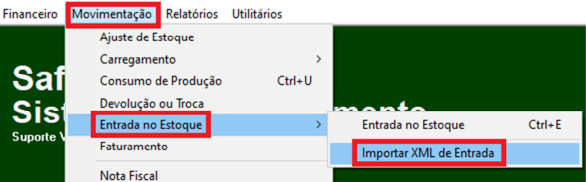
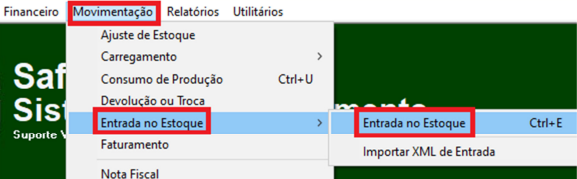
GITBOOK-2: No subject

diff --git a/movimentacao/entrada-no-estoque/importar-xml-de-entrada.md b/movimentacao/entrada-no-estoque/importar-xml-de-entrada.md
@@ -1,2 +1,74 @@
-# Importar XML de entrada
+# Importar XML de Entrada
 
+* Abra a tela “Importar XML de Entrada”.
+
+<figure><img src="../../.gitbook/assets/image (6) (1).png" alt=""><figcaption></figcaption></figure>
+
+* Clique no botão “Importar XML”.
+
+<figure><img src="../../.gitbook/assets/image (7) (1).png" alt=""><figcaption></figcaption></figure>
+
+* Clique na nota que deseja importar e depois clique no botão “Tratar XML”.
+
+<figure><img src="../../.gitbook/assets/image (8) (1).png" alt=""><figcaption></figcaption></figure>
+
+* Clique em “SIM” para tratar a nota fiscal.
+
+<figure><img src="../../.gitbook/assets/image (9) (1).png" alt=""><figcaption></figcaption></figure>
+
+* Clique em “ALTERAR” e em seguida em “Revisar Entrada”.
+
+<figure><img src="../../.gitbook/assets/image (10) (1).png" alt=""><figcaption></figcaption></figure>
+
+* Na tela que abrirá existem dois lados, o esquerdo(circulado em Azul) são as informações como estão no XML. E no lado direito(circulado em vermelho) é como o produto entrará na empresa. Detalharemos mais abaixo.
+
+<figure><img src="../../.gitbook/assets/image (11) (1).png" alt=""><figcaption></figcaption></figure>
+
+* Selecione no lado direito o produto referente ao do xml(como o produto está cadastrado).
+
+<figure><img src="../../.gitbook/assets/image (12) (1).png" alt=""><figcaption></figcaption></figure>
+
+1. Clique no botão “Replicar NCM e CEST” se ele estiver aparecendo.
+2. Confira se a quantidade está correta.
+3. Coloque o CFOP de entrada(se não souber pergunte a contabilidade).
+4. Coloque o CFOP de entrada(se não souber pergunte a contabilidade).
+5. Verifique se o grupo está correto.
+6. Caso queira, pode alterar o preço de venda do produto.
+7. Clique em “Confirmar” para ir para o próximo produto.
+
+<figure><img src="../../.gitbook/assets/image (13) (1).png" alt=""><figcaption></figcaption></figure>
+
+## <mark style="color:red;">OBSERVAÇÃO</mark>
+
+Se o produto for novo e precisa ser cadastrado, clique no botão “Cadastrar”.
+
+<figure><img src="../../.gitbook/assets/image (14) (1).png" alt=""><figcaption></figcaption></figure>
+
+Na tela que abrir clique em SIM.
+
+<figure><img src="../../.gitbook/assets/image (15) (1).png" alt=""><figcaption></figcaption></figure>
+
+Escreva o nome do produto para cadastrá-lo, e clique em “Confirma”.
+
+<figure><img src="../../.gitbook/assets/image (16) (1).png" alt=""><figcaption></figcaption></figure>
+
+## <mark style="color:red;">FIM DE OBSERVAÇÃO</mark>
+
+1. Após revisar todos os produtos o sistema voltará para a tela principal, nela verifique; 1 se o FORNECEDOR está correto.
+2. Se tiver mais de um almoxarifado, escolha em qual a entrada será feita, se **NÃO** tiver mais de um almoxarifado essa opção sequer aparecerá.
+
+<figure><img src="../../.gitbook/assets/image (17) (1).png" alt=""><figcaption></figcaption></figure>
+
+A primeira caixinha se marcada, o preço de custo no cadastro de produto fechará igual ao dessa entrada.&#x20;
+
+Se a última caixinha estiver marcada o valor da venda será alterada para o que foi colocado nessa entrada.
+
+### Clique em **SALVAR**.
+
+<figure><img src="../../.gitbook/assets/image (18) (1).png" alt=""><figcaption></figcaption></figure>
+
+Para efetivar a entrada clique no botão verde “Gerar Entrada”, e escolha a opção GERAR ENTRADA.
+
+<figure><img src="../../.gitbook/assets/image (19) (1).png" alt=""><figcaption></figcaption></figure>
+
+<mark style="color:red;">**OBS:**</mark> Caso clique na segunda opção “Apenas Inclusão do XML”, a entrada será feita SOMENTE no Estoque Fiscal, e não no Estoque Real.

diff --git a/movimentacao/nota-fiscal/nota-de-devolucao-do-cupom-fiscal.md b/movimentacao/nota-fiscal/nota-de-devolucao-do-cupom-fiscal.md
@@ -1,0 +1,50 @@
+# Nota de devolução do Cupom Fiscal
+
+* No Retaguarda vá em MOVIMENTAÇÃO – NOTA FISCAL
+
+<figure><img src="../../.gitbook/assets/image (13).png" alt=""><figcaption></figcaption></figure>
+
+* Na tela de nota fiscal clique em “NOVO”.
+
+<figure><img src="../../.gitbook/assets/image (14).png" alt=""><figcaption></figcaption></figure>
+
+* Coloque o CFOP de devolução. Caso não saiba o CFOP de devolução peça à sua contabilidade. (Ex:1202)
+
+<figure><img src="../../.gitbook/assets/image (15).png" alt=""><figcaption></figcaption></figure>
+
+* Note que após colocar o CFOP o TIPO estará piscando marcado como ”Entrada”, o que significa que o produto entrará no estoque fiscal.
+
+<figure><img src="../../.gitbook/assets/image (16).png" alt=""><figcaption></figcaption></figure>
+
+* Coloque o Fornecedor da nota fiscal. O fornecedor precisa estar cadastrado como cliente, pois a nota fiscal vai procurar na tela de Cadastro de Clientes.
+
+<figure><img src="../../.gitbook/assets/image (17).png" alt=""><figcaption></figcaption></figure>
+
+* Clique em “Incluir Produto”.
+
+<figure><img src="../../.gitbook/assets/image (18).png" alt=""><figcaption></figcaption></figure>
+
+* Insira os produtos que serão devolvidos e clique em “Incluir”.
+
+<figure><img src="../../.gitbook/assets/image (19).png" alt=""><figcaption></figcaption></figure>
+
+* Na aba "Nota Referenciada" coloque a chave de acesso(44 digitos) do cupom que será devolvido, e clique em “Incluir”.
+
+<figure><img src="../../.gitbook/assets/image (20).png" alt=""><figcaption></figcaption></figure>
+
+### A chave de acesso encontra-se na paste inferior do cupom, como mostrado na imagem abaixo.
+
+<figure><img src="../../.gitbook/assets/image (10).png" alt=""><figcaption></figcaption></figure>
+
+* Na aba “Pagamento" escolha DEVOLUÇÃO ou BONIFICAÇÃO. E no valor coloque o numero 0(Zero). Em seguida clique em “Incluir”. E clique em SALVAR.
+
+<figure><img src="../../.gitbook/assets/image (11).png" alt=""><figcaption></figcaption></figure>
+
+* Transmita a nota de devolução.
+
+<figure><img src="../../.gitbook/assets/image (12).png" alt=""><figcaption></figcaption></figure>
+
+
+
+
+

diff --git a/movimentacao/entrada-no-estoque/entrada-no-estoque/entrada-manual-com-xml-fiscal-e-real.md b/movimentacao/entrada-no-estoque/entrada-no-estoque/entrada-manual-com-xml-fiscal-e-real.md
@@ -1,0 +1,36 @@
+# Entrada Manual com XML Fiscal e Real
+
+* Abra a tela de “Entrada no Estoque”.
+
+<figure><img src="../../../.gitbook/assets/image.png" alt=""><figcaption></figcaption></figure>
+
+* Preencha os campos abaixo:
+
+<figure><img src="../../../.gitbook/assets/image (1).png" alt=""><figcaption></figcaption></figure>
+
+1. Digite os 44 números da chave de acesso, e aperte ENTER(para preencher alguns campos automaticamente).
+2. Preencha o CFOP de entrada(caso não saiba qual usar pergunte a sua contabilidade).
+3. Preencha o campo “A Vista”.
+4. Deixe **DESMARCADA** o campo de “Entrada Para Balanço”, pois quando marcada a entrada é feita somente no estoque real.
+5. Escolha o fornecedor da nota.
+6. Se não tiver mais de um almoxarifado a opção 8 não aparecerá. Mas se houver mais de um então escolha o almoxarifado.
+
+* Caso precise modificar o Valor Total da Nota pode preencher os campo abaixo. Dos campos marcados o “Desconto” é o único que diminui o valor total.
+
+<figure><img src="../../../.gitbook/assets/image (2).png" alt=""><figcaption></figcaption></figure>
+
+Agora clique no botão “Incluir Produtos” para inserir as mercadorias.
+
+<figure><img src="../../../.gitbook/assets/image (3).png" alt=""><figcaption></figcaption></figure>
+
+Informe o produto com suas informações(o campo “Data Validade” é opcional). E clique no botão **INCLUIR**, e vá acrescentando os produtos um por um.
+
+<figure><img src="../../../.gitbook/assets/image (4).png" alt=""><figcaption></figcaption></figure>
+
+1. Quando essa opção fica marcada, o valor de custo no cadastro do produto passa a ser o mesmo dessa entrada.
+2. Quando marcada essa opção, o sistema calcula o custo médio dessa entrada com o estoque atual(essa opção 2 raramente é utilizada pelas empresas).
+
+Após incluir todos os produtos Clique em **SALVAR.**
+
+<figure><img src="../../../.gitbook/assets/image (5).png" alt=""><figcaption></figcaption></figure>
+

diff --git a/SUMMARY.md b/SUMMARY.md
@@ -21,12 +21,12 @@
 
 ## Movimentação
 
-* [Ajuste no estoque](movimentacao/ajuste-no-estoque.md)
+* [Ajuste no estoque](movimentacao/ajuste-no-estoque/README.md)
+  * [Balanço Total do Estoque](movimentacao/ajuste-no-estoque/balanco-total-do-estoque.md)
 * [Entrada no estoque](movimentacao/entrada-no-estoque/README.md)
-  * [Entrada no estoque](movimentacao/entrada-no-estoque/entrada-no-estoque.md)
-  * [Importar XML de entrada](movimentacao/entrada-no-estoque/importar-xml-de-entrada.md)
-  * [Nota Fiscal](movimentacao/entrada-no-estoque/nota-fiscal.md)
-  * [Tabela de preços](movimentacao/entrada-no-estoque/tabela-de-precos.md)
-  * [Transferência ](movimentacao/entrada-no-estoque/transferencia/README.md)
-    * [Transferência entre almoxarifados](movimentacao/entrada-no-estoque/transferencia/transferencia-entre-almoxarifados.md)
-    * [Transferência de perda](movimentacao/entrada-no-estoque/transferencia/transferencia-de-perda.md)
+  * [Importar XML de Entrada](movimentacao/entrada-no-estoque/importar-xml-de-entrada.md)
+  * [Entrada no estoque](movimentacao/entrada-no-estoque/entrada-no-estoque/README.md)
+    * [Entrada Manual com XML Fiscal e Real](movimentacao/entrada-no-estoque/entrada-no-estoque/entrada-manual-com-xml-fiscal-e-real.md)
+    * [Entrada Manual do Estoque Real](movimentacao/entrada-no-estoque/entrada-no-estoque/entrada-manual-do-estoque-real.md)
+* [Nota Fiscal](movimentacao/nota-fiscal/README.md)
+  * [Nota de devolução do Cupom Fiscal](movimentacao/nota-fiscal/nota-de-devolucao-do-cupom-fiscal.md)

diff --git a/movimentacao/entrada-no-estoque/entrada-no-estoque/entrada-manual-do-estoque-real.md b/movimentacao/entrada-no-estoque/entrada-no-estoque/entrada-manual-do-estoque-real.md
@@ -1,0 +1,19 @@
+# Entrada Manual do Estoque Real
+
+* Abra a tela de “Entrada no Estoque”.
+
+<figure><img src="../../../.gitbook/assets/image (6).png" alt=""><figcaption></figcaption></figure>
+
+* Deixe marcado o campo “Entrada Para Balanço”. E clique em “Incluir Produtos”.
+
+<figure><img src="../../../.gitbook/assets/image (7).png" alt=""><figcaption></figcaption></figure>
+
+* Preencha os campos obrigatórios, e clique em **INCLUIR** para inserir o produto.
+
+<figure><img src="../../../.gitbook/assets/image (8).png" alt=""><figcaption></figcaption></figure>
+
+* Se quiser que o preço de custo no cadastro do seja o mesmo dessa entrada, marque a primeira caixinha.
+
+<figure><img src="../../../.gitbook/assets/image (9).png" alt=""><figcaption></figcaption></figure>
+
+Clique em **SALVAR** para fazer a entrada no estoque real.

diff --git a/movimentacao/ajuste-no-estoque/README.md b/movimentacao/ajuste-no-estoque/README.md
@@ -1,0 +1,13 @@
+# Ajuste no estoque
+
+<figure><img src="../../.gitbook/assets/image (22).png" alt=""><figcaption></figcaption></figure>
+
+<figure><img src="../../.gitbook/assets/image (1) (1).png" alt=""><figcaption></figcaption></figure>
+
+<figure><img src="../../.gitbook/assets/image (2) (1).png" alt=""><figcaption></figcaption></figure>
+
+<figure><img src="../../.gitbook/assets/image (3) (1).png" alt=""><figcaption></figcaption></figure>
+
+<figure><img src="../../.gitbook/assets/image (4) (1).png" alt=""><figcaption></figcaption></figure>
+
+<figure><img src="../../.gitbook/assets/image (5) (1).png" alt=""><figcaption></figcaption></figure>

diff --git a/movimentacao/ajuste-no-estoque/balanco-total-do-estoque.md b/movimentacao/ajuste-no-estoque/balanco-total-do-estoque.md
@@ -1,0 +1,2 @@
+# Balanço Total do Estoque
+

diff --git a/movimentacao/entrada-no-estoque/entrada-no-estoque/README.md b/movimentacao/entrada-no-estoque/entrada-no-estoque/README.md
@@ -1,0 +1,2 @@
+# Importar XML de entrada
+
